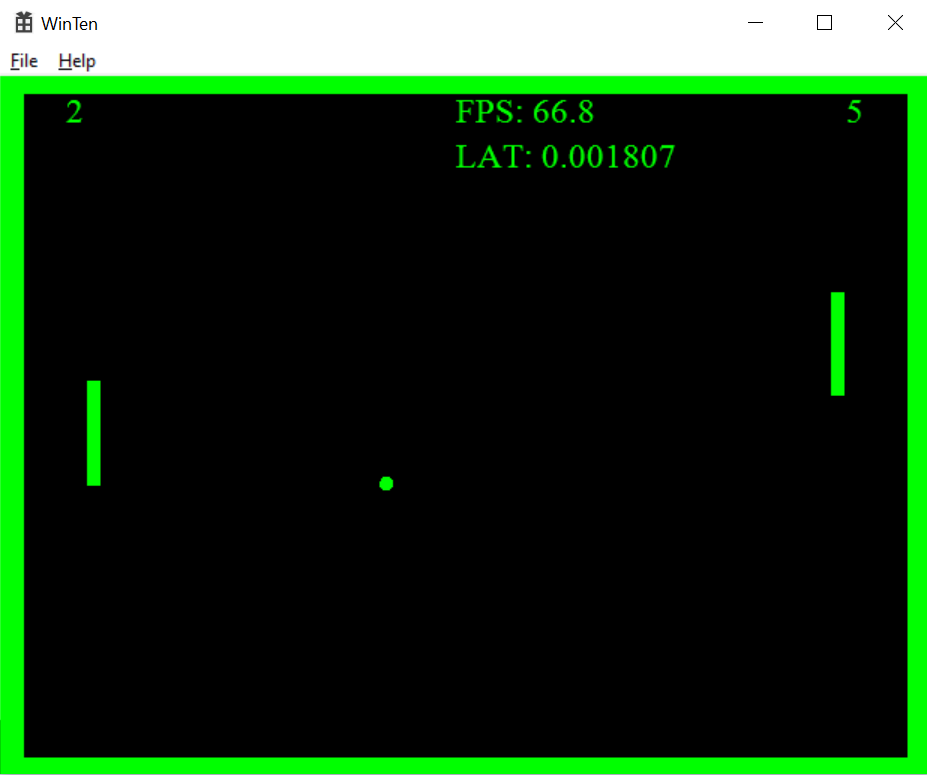
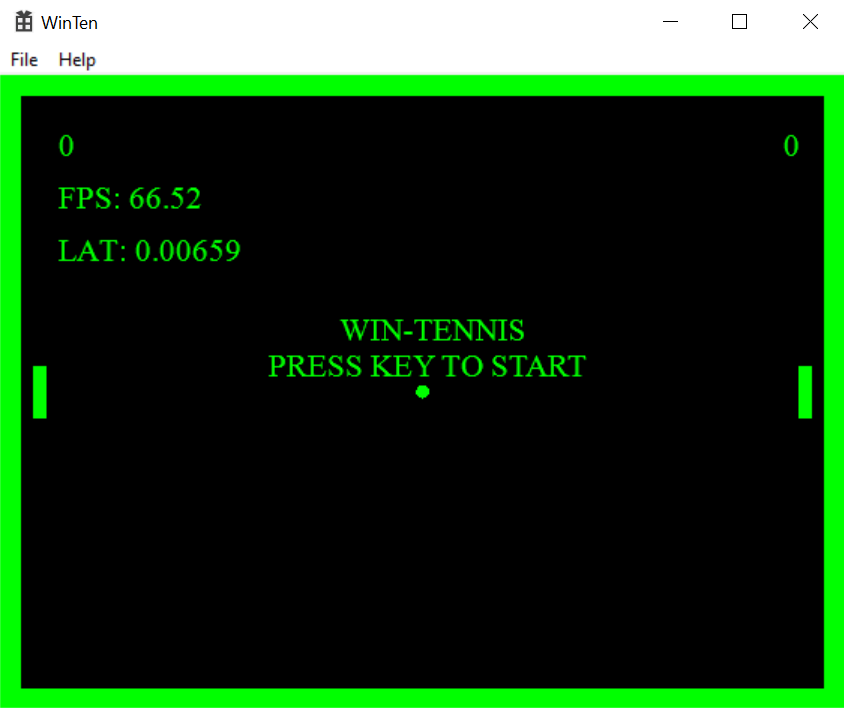
Update screenshot and readme markdown.

diff --git a/README.md b/README.md
@@ -1,5 +1,14 @@
 # win-ten-cpp
-A simple tennis game simulation similar to pong, implemented in object-orientated C++ using the native Windows GDI+ and GUI APIs.
+A simple single-player tennis game simulation similar to pong, implemented in object-orientated C++ using the native Windows GDI+ and GUI APIs.
+
+## Usage
+
+* On starting the application will begin in demo mode where both sides play each other automatically.
+* Hitting any key in demo mode begins the single-player game.
+* The right side is the player's paddle, the left side is the computer opponent (non-playable character). 
+* The up and down arrow keys control the player's paddle. 
+* The objective is to avoid letting the ball hit the back wall (right hand side wall) behind the player's paddle. When the ball hits the wall behind the oponent the player's score increases. 
+* The first side to five points wins the game.
 
 ![Screenshot of the game running in Windows.](images/screenshot.png?raw=true)
 
